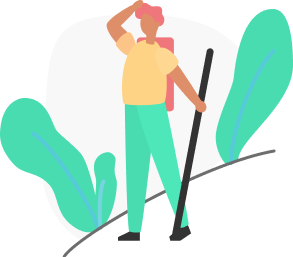
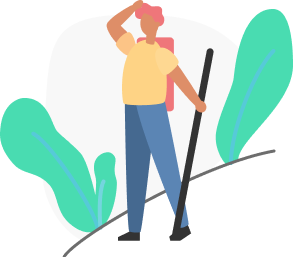
delete background, add new illustrations, delete now obsolete images

Changed region(s): [[0.3993, 0.4047, 0.6451, 0.9027]]

diff --git a/app/assets/stylesheets/pages/_home.scss b/app/assets/stylesheets/pages/_home.scss
@@ -3,14 +3,6 @@ p {
   font-weight: 300;
 }
 
-.home-background {
-  background: asset-url('background.png');
-  height: 100%;
-  background-position: center;
-  background-repeat: no-repeat;
-  background-size: cover;
-}
-
 .flex-container {
   display: flex;
   justify-content: center;
